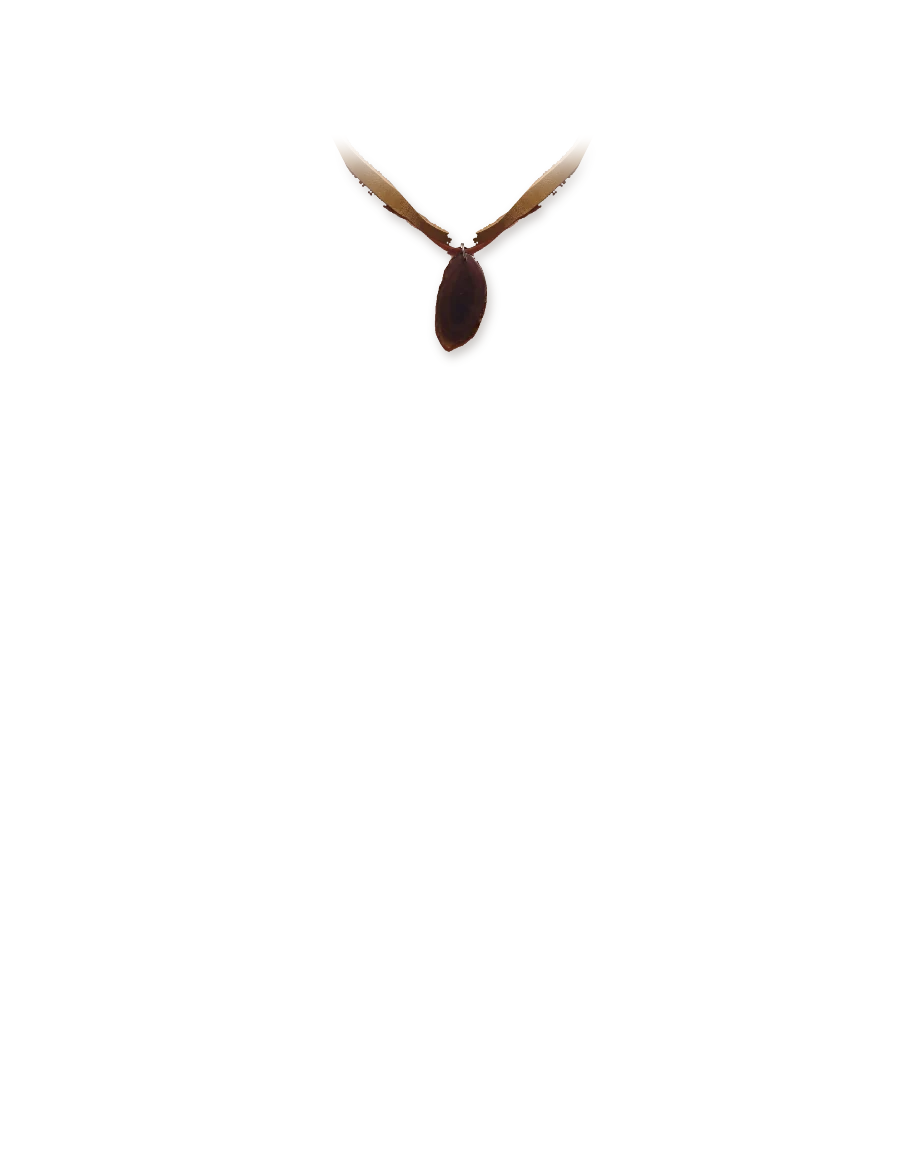
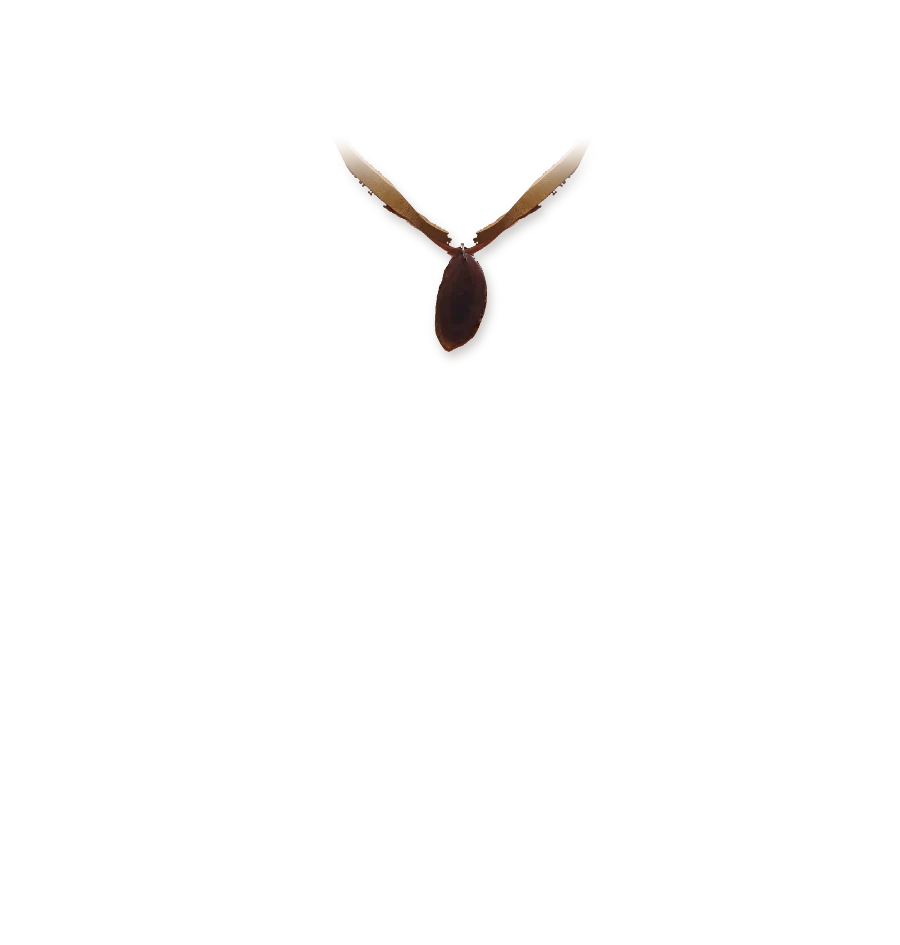
TIRRA: tronco del exhibidor más bajo
Claude-Session: https://claude.ai/code/session_01FHVGg6LRu9CuR4S83BY3x6

Changed region(s): [[0.3733, 0.1228, 0.6533, 0.3989]]

diff --git a/patria/tirra.css b/patria/tirra.css
@@ -193,7 +193,7 @@ body.menu-abierto .header .logo__claro{ display:none; } body.menu-abierto .heade
 .collares__cabeza .eti{ margin:0; }
 .collares__fila{ display:grid; grid-template-columns:repeat(4,1fr); gap:clamp(12px,2vw,32px); }
 .exhib{ display:flex; flex-direction:column; align-items:center; gap:4px; padding:0; text-align:center; cursor:pointer; }
-.exhib__marco{ position:relative; display:block; width:100%; aspect-ratio:900/1165; margin-bottom:10px; }
+.exhib__marco{ position:relative; display:block; width:100%; aspect-ratio:900/945; margin-bottom:10px; }
 .exhib__base{ position:absolute; inset:0; width:100%; height:100%; object-fit:contain; mix-blend-mode:multiply; transition:transform 1s var(--ease); transform-origin:50% 100%; }
 .exhib__collar{ position:absolute; inset:0; width:100%; height:100%; object-fit:contain; transition:transform 1s var(--ease); transform-origin:50% 100%; }
 .exhib:hover .exhib__base, .exhib:hover .exhib__collar{ transform:scale(1.03); }

diff --git a/patria/tirra.js b/patria/tirra.js
@@ -558,8 +558,8 @@
       var p = producto("col-" + nombre); if (!p) return;
       var b = document.createElement("button");
       b.type = "button"; b.className = "exhib"; b.setAttribute("aria-label", "Ver " + p.nombre);
-      b.innerHTML = '<span class="exhib__marco"><img class="exhib__base" src="images/exhibidor.jpg" alt="" loading="lazy">' +
-        '<img class="exhib__collar" src="images/collar-' + nombre + '.webp" alt="' + p.nombre + '" loading="lazy"></span>' +
+      b.innerHTML = '<span class="exhib__marco"><img class="exhib__base" src="images/exhibidor.jpg?v=2" alt="" loading="lazy">' +
+        '<img class="exhib__collar" src="images/collar-' + nombre + '.webp?v=2" alt="' + p.nombre + '" loading="lazy"></span>' +
         '<span class="exhib__nombre">' + p.nombre + '</span><span class="exhib__precio">' + precio(p.precio) + '</span>';
       b.addEventListener("click", function () { abrirFicha(p); });
       filaCol.appendChild(b);

diff --git a/patria/index.html b/patria/index.html
@@ -14,7 +14,7 @@
 <link rel="preconnect" href="https://fonts.googleapis.com">
 <link rel="preconnect" href="https://fonts.gstatic.com" crossorigin>
 <link href="https://fonts.googleapis.com/css2?family=Inter:wght@400;700&display=swap" rel="stylesheet">
-<link rel="stylesheet" href="tirra.css?v=20">
+<link rel="stylesheet" href="tirra.css?v=21">
 </head>
 <body>
 
@@ -290,6 +290,6 @@
 <script src="https://cdnjs.cloudflare.com/ajax/libs/gsap/3.12.5/gsap.min.js"></script>
 <script src="https://cdnjs.cloudflare.com/ajax/libs/gsap/3.12.5/ScrollTrigger.min.js"></script>
 <script src="productos.js?v=29"></script>
-<script src="tirra.js?v=25"></script>
+<script src="tirra.js?v=26"></script>
 </body>
 </html>

diff --git a/notas/patria.md b/notas/patria.md
@@ -119,3 +119,4 @@ la página queda usable sin animaciones.
 - Colección: los chalecos usan las fotos del perchero (`perch-*.webp` frente/espalda).
 - Galería: se sacó la foto de las pulseras sobre el caballo (`ig-1.jpg`); ahora 2 fotos grandes arriba y 3 abajo.
 - Pendiente: textura de croco nueva (Facundo pasó referencia de croco negro brillante; falta el archivo).
+- Tronco del exhibidor acortado a la mitad (se quitó una franja del medio con fundido). Los collares sobre el busto siguen siendo montajes de fotos puestas en persona: Facundo dice que no se ven reales → hacen falta fotos/imágenes de cada collar ya puesto en el busto.
